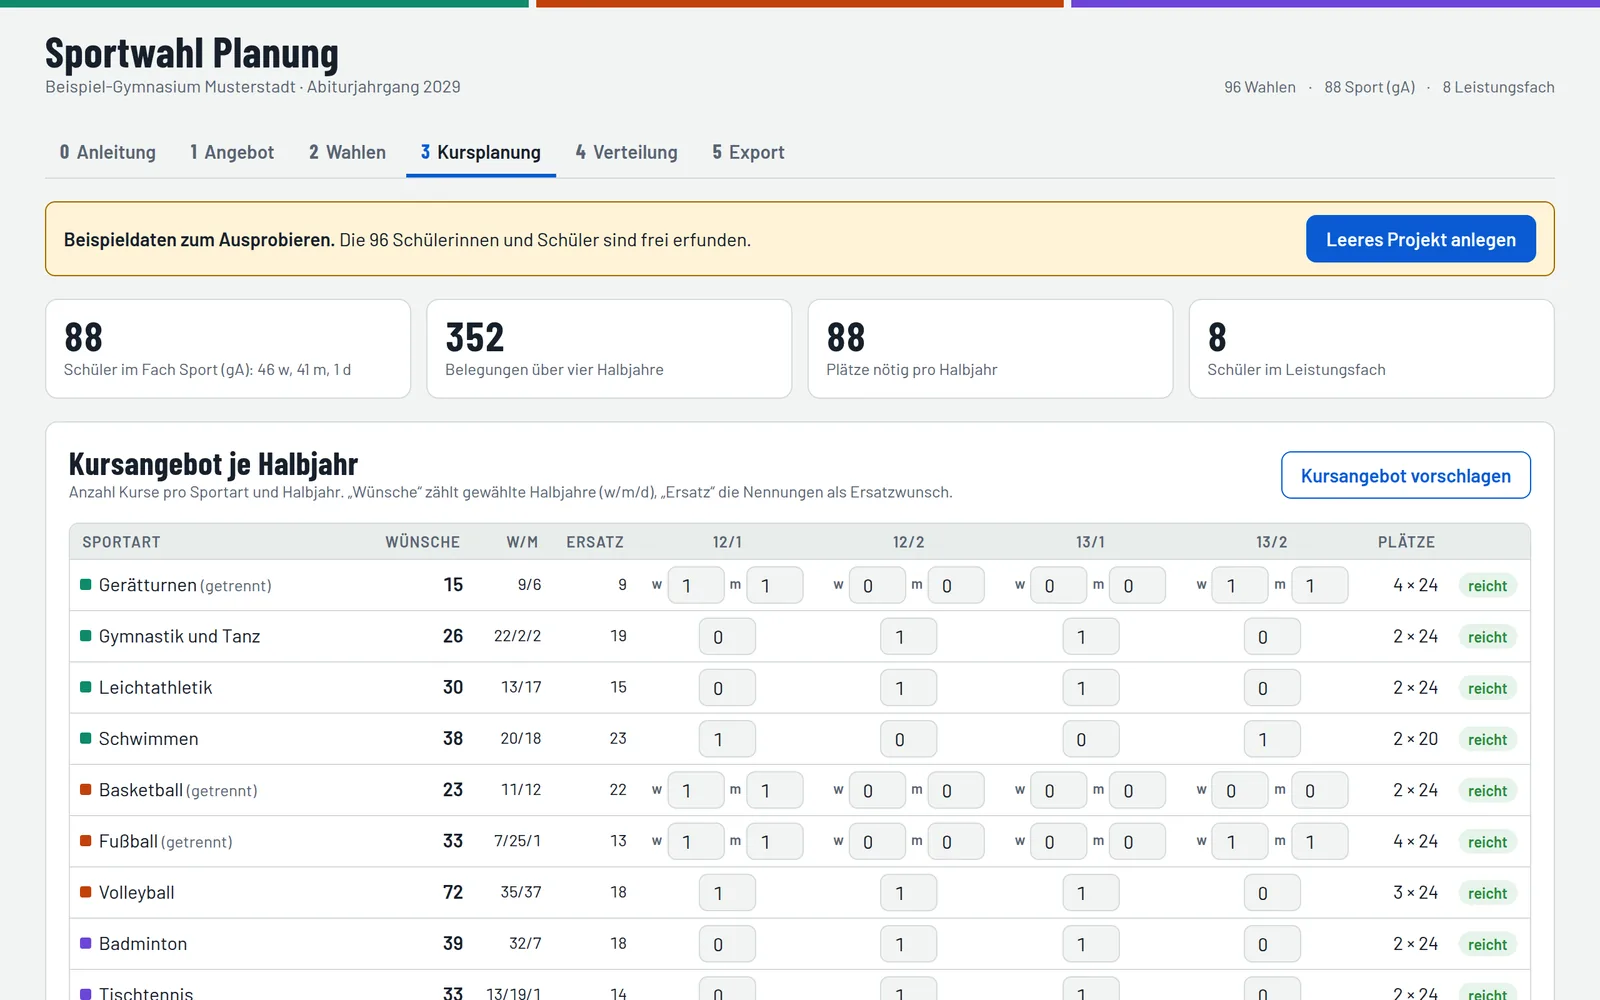
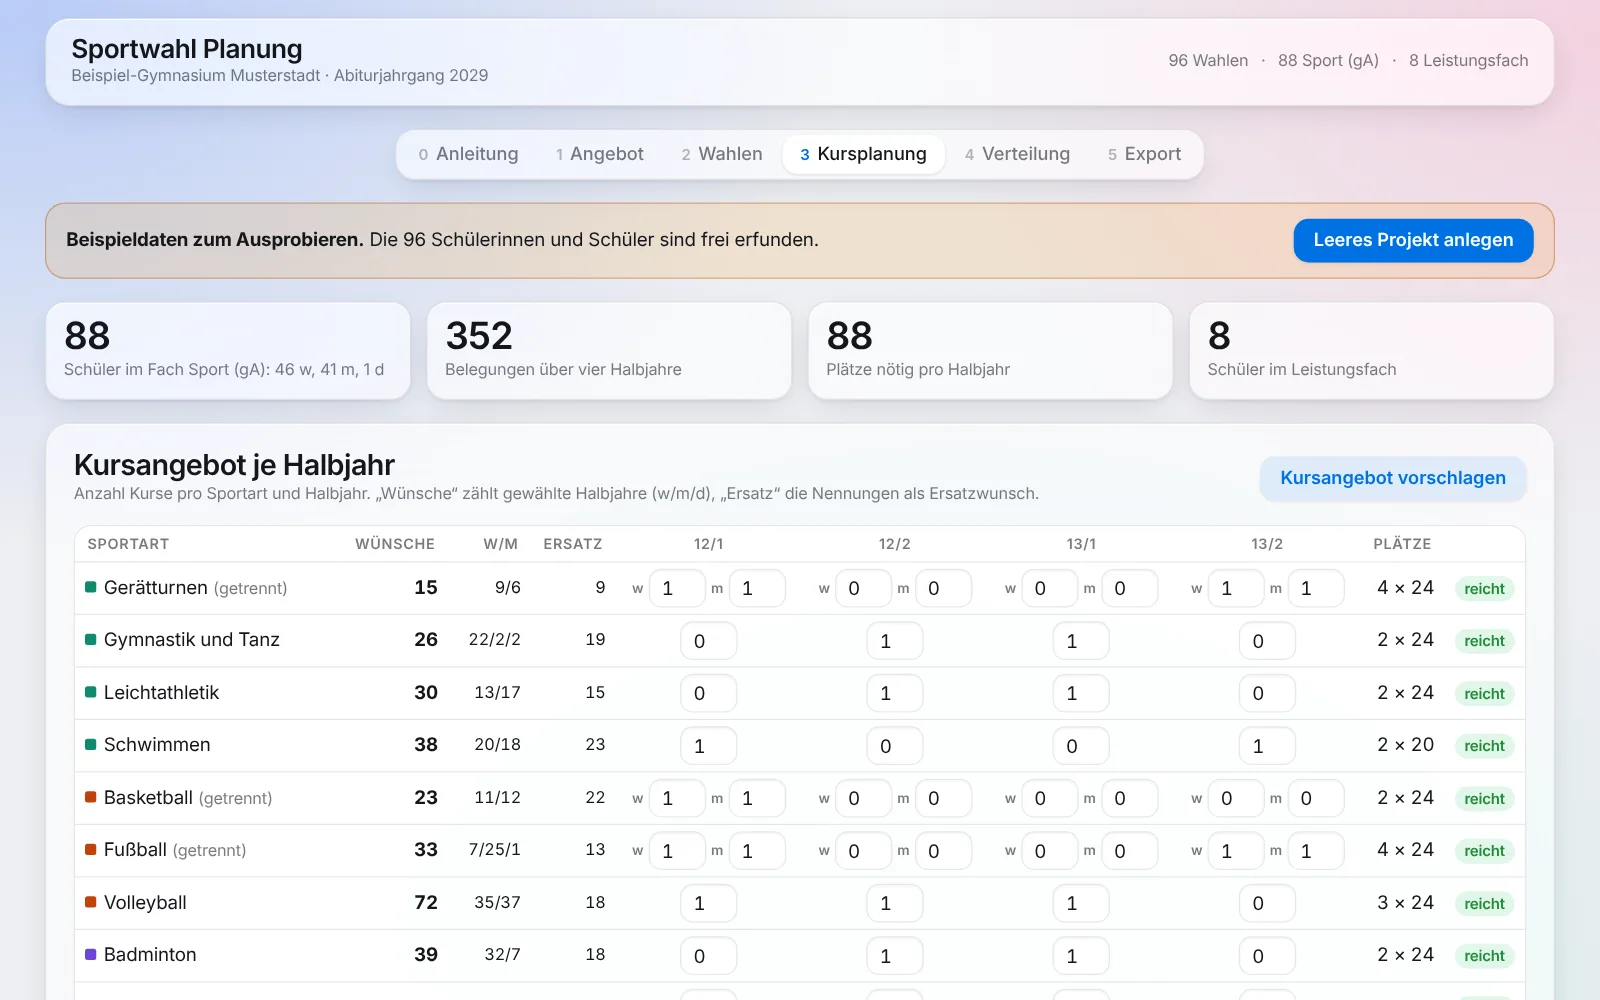
Add files via upload

diff --git a/sportwahl/app.html b/sportwahl/app.html
@@ -122,6 +122,82 @@ footer { color: var(--muted); font-size: 13px; border-top: 1px solid var(--line)
   #print-area .pcs { columns: 2; }
 }
 </style>
+<style id="theis-theme">
+/* theis-Design (wie Gruppen, Viva, Libretto): Glas, weiche Farbflächen, Systemschrift */
+:root{
+  --canvas:#EDEEF2; --wash-a:rgba(110,155,255,.42); --wash-b:rgba(255,150,185,.32); --wash-c:rgba(125,228,210,.34);
+  --glass:rgba(255,255,255,.62); --glass-solid:rgba(255,255,255,.88); --glass-hi:rgba(255,255,255,.85);
+  --bg:rgba(255,255,255,.7); --surface:var(--glass); --ink:#14161A; --muted:rgba(30,34,40,.6); --line:rgba(0,0,0,.09); --sunk:rgba(20,30,50,.06);
+  --accent:#0071E3; --accent-ink:#fff; --soft:rgba(0,113,227,.10);
+  --ok:#248A3D; --warn:#B25000; --bad:#D70015; --okbg:rgba(52,199,89,.14); --warnbg:rgba(255,149,0,.14); --badbg:rgba(255,59,48,.12);
+  --lift:0 1px 2px rgba(16,24,40,.05), 0 8px 26px -8px rgba(16,24,40,.16);
+  --blur:saturate(180%) blur(28px);
+  --f-display:"Inter", -apple-system, BlinkMacSystemFont, "SF Pro Display", "Segoe UI Variable Display", "Segoe UI", system-ui, sans-serif;
+  --f-body:"Inter", -apple-system, BlinkMacSystemFont, "SF Pro Text", "Segoe UI Variable Text", "Segoe UI", system-ui, sans-serif;
+}
+@media (prefers-color-scheme: dark){ :root:not([data-theme="light"]){
+  --canvas:#07080B; --wash-a:rgba(50,100,220,.30); --wash-b:rgba(190,60,120,.20); --wash-c:rgba(20,150,150,.22);
+  --glass:rgba(38,41,48,.58); --glass-solid:rgba(34,37,44,.9); --glass-hi:rgba(255,255,255,.12);
+  --bg:rgba(255,255,255,.06); --surface:var(--glass); --ink:#F5F6F8; --muted:rgba(235,238,245,.62); --line:rgba(255,255,255,.10); --sunk:rgba(255,255,255,.07);
+  --accent:#0A84FF; --accent-ink:#fff; --soft:rgba(10,132,255,.18);
+  --ok:#32D74B; --warn:#FF9F0A; --bad:#FF453A; --okbg:rgba(50,215,75,.16); --warnbg:rgba(255,159,10,.16); --badbg:rgba(255,69,58,.16);
+  --lift:0 1px 2px rgba(0,0,0,.5);
+}}
+:root[data-theme="dark"]{
+  --canvas:#07080B; --wash-a:rgba(50,100,220,.30); --wash-b:rgba(190,60,120,.20); --wash-c:rgba(20,150,150,.22);
+  --glass:rgba(38,41,48,.58); --glass-solid:rgba(34,37,44,.9); --glass-hi:rgba(255,255,255,.12);
+  --bg:rgba(255,255,255,.06); --surface:var(--glass); --ink:#F5F6F8; --muted:rgba(235,238,245,.62); --line:rgba(255,255,255,.10); --sunk:rgba(255,255,255,.07);
+  --accent:#0A84FF; --accent-ink:#fff; --soft:rgba(10,132,255,.18);
+  --ok:#32D74B; --warn:#FF9F0A; --bad:#FF453A; --okbg:rgba(50,215,75,.16); --warnbg:rgba(255,159,10,.16); --badbg:rgba(255,69,58,.16);
+  --lift:0 1px 2px rgba(0,0,0,.5);
+}
+html{min-height:100%;background-color:var(--canvas);
+  background-image:radial-gradient(1100px 700px at 0% 0%,var(--wash-a),transparent 62%),radial-gradient(900px 640px at 100% 4%,var(--wash-b),transparent 60%),radial-gradient(1100px 760px at 60% 100%,var(--wash-c),transparent 62%);
+  background-attachment:fixed}
+body{background:transparent;font:15px/1.5 var(--f-body);letter-spacing:-.01em;-webkit-font-smoothing:antialiased}
+.lines{display:none}
+.shell{padding-top:14px}
+/* Kopfzeile als Glasleiste */
+header.top{background:var(--glass);-webkit-backdrop-filter:var(--blur);backdrop-filter:var(--blur);border:.5px solid var(--line);box-shadow:var(--lift),inset 0 1px 0 var(--glass-hi);
+  border-radius:20px;padding:12px 20px;align-items:center}
+.brand h1{font:600 21px/1.2 var(--f-display);letter-spacing:-.02em}
+.brand .sub{font-size:13px}
+/* Reiter als Segment-Schalter */
+nav.tabs{justify-self:center;border:.5px solid var(--line);background:var(--glass);-webkit-backdrop-filter:var(--blur);backdrop-filter:var(--blur);box-shadow:var(--lift);
+  border-radius:16px;padding:4px;gap:2px;top:calc(env(safe-area-inset-top,0px) + 8px)}
+nav.tabs button{border:0;border-radius:12px;padding:7px 14px;font:500 14.5px var(--f-body);color:var(--muted);align-items:center;transition:background .18s,color .18s}
+nav.tabs button:hover{color:var(--ink)}
+nav.tabs button .n{font:600 12px var(--f-body);color:inherit;opacity:.55}
+nav.tabs button[aria-selected="true"]{color:var(--ink);background:var(--glass-solid);box-shadow:0 1px 3px rgba(16,24,40,.12)}
+nav.tabs button[aria-selected="true"] .n{color:var(--accent);opacity:1}
+/* Flächen */
+.panel,.stat,.course{border:.5px solid var(--line);border-radius:20px;background:var(--glass);-webkit-backdrop-filter:var(--blur);backdrop-filter:var(--blur);box-shadow:var(--lift),inset 0 1px 0 var(--glass-hi)}
+.panel{padding:20px 22px}
+.stat,.course{border-radius:16px}
+.banner{border:.5px solid color-mix(in srgb,var(--warn) 40%,transparent);background:var(--warnbg);border-radius:16px;padding:12px 16px}
+h2{font:600 23px/1.2 var(--f-display);letter-spacing:-.02em}
+h3{font:600 17px/1.25 var(--f-display);letter-spacing:-.015em}
+.hj-title h3{font-size:21px}
+.stat b{font:600 30px/1.05 var(--f-display);letter-spacing:-.02em}
+.steps li::before{font:600 20px/1.2 var(--f-display)}
+/* Bedienelemente */
+input[type=text],input[type=number],select,textarea{border:.5px solid var(--line);border-radius:10px;background:var(--bg);box-shadow:inset 0 1px 2px rgba(16,24,40,.05)}
+.btn{border-radius:12px;font:600 14.5px var(--f-body);padding:9px 16px;border:0;box-shadow:0 1px 2px rgba(16,24,40,.08)}
+.btn.ghost{background:var(--soft);color:var(--accent)}
+.btn.quiet{background:var(--sunk);color:var(--ink)}
+.btn.danger{background:var(--badbg);color:var(--bad)}
+.subtabs button{border:0;background:var(--sunk);font-weight:500}
+.subtabs button[aria-pressed="true"]{background:var(--accent);color:#fff}
+.tbl-wrap{border:.5px solid var(--line);border-radius:14px;background:var(--glass-solid)}
+th{background:var(--glass-solid);font:600 11.5px var(--f-body);letter-spacing:.05em}
+.chip,.pill{border-radius:8px}
+.pill{border-radius:999px}
+.toast{border-radius:14px;box-shadow:var(--lift)}
+footer{border-top:.5px solid var(--line)}
+:focus-visible{outline:4px solid color-mix(in srgb,var(--accent) 45%,transparent);outline-offset:2px;border-radius:10px}
+.shell,.stack{grid-template-columns:minmax(0,1fr)}
+.shell>*,.stack>*,main#view{min-width:0}
+</style>
 </head>
 <body>
 <div class="lines" aria-hidden="true"><span></span><span></span><span></span></div>
@@ -144,7 +220,7 @@ footer { color: var(--muted); font-size: 13px; border-top: 1px solid var(--line)
   <div id="banner"></div>
   <main id="view"></main>
   <footer>
-    <span><b>Über diese App:</b> Sportwahl Planung · © 2026 theis · <a href="../index.html" style="color:inherit">Apps für die Schule</a> · <a href="https://buy.stripe.com/3cI3cv0i8eLk31g4mNgw000" target="_blank" rel="noopener" style="color:inherit;font-weight:600">☕ Einen Kaffee ausgeben</a></span>
+    <span><b>Über diese App:</b> Sportwahl Planung · © 2026 theis · <a href="../" style="color:inherit">Apps für die Schule</a> · <a href="https://buy.stripe.com/3cI3cv0i8eLk31g4mNgw000" target="_blank" rel="noopener" style="color:inherit;font-weight:600">☕ Einen Kaffee ausgeben</a></span>
     <span>Alle Daten bleiben auf diesem Rechner. Nichts wird ins Internet gesendet.</span>
   </footer>
 </div>
